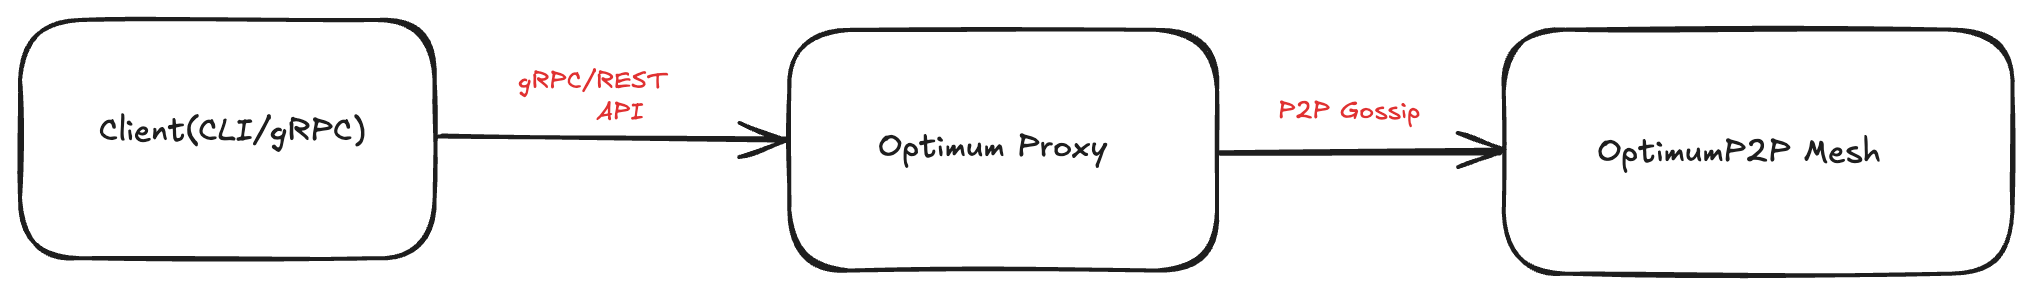
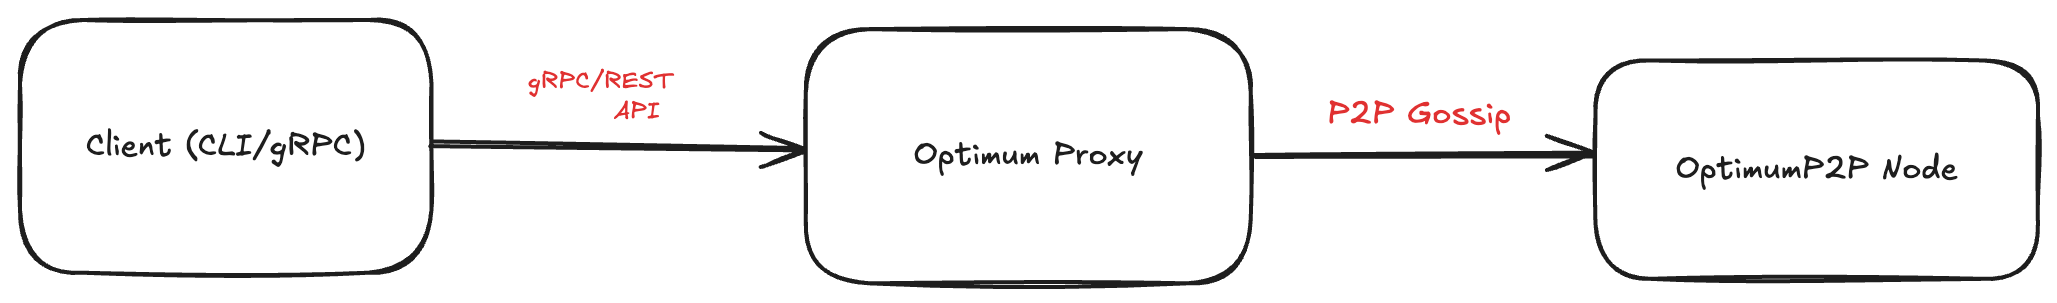
fix: diagrams and faq

diff --git a/docs/guides/02-getting-started-docker.md b/docs/guides/02-getting-started-docker.md
@@ -8,7 +8,7 @@ You can run the network in two primary ways:
 ![OptimumProxy + OptimumP2P Architecture](../../static/img/docker_1.png)
 
 * Simplifies client configuration — only the Proxy address is needed.
-* Proxy handles shard reassembly, threshold logic, and node selection.
+* Proxy handles shard reassembly, threshold logic, and node selection automatically.
 * Easier scaling and centralized policy control.
 
 **2. Direct OptimumP2P** — Clients connect directly to **OptimumP2P nodes** (each node must run the gRPC API).
@@ -16,7 +16,7 @@ You can run the network in two primary ways:
 ![Direct OptimumP2P Architecture](../../static/img/docker_2.png)
 
 * Fewer network hops = potentially lower latency.
-* Clients must know node addresses and manage failover.
+* Clients must know node addresses and manage failover logic.
 * Best for specialized or performance-critical workloads.
 
 

diff --git a/docs/guides/05-faq-glossary.md b/docs/guides/05-faq-glossary.md
@@ -1,12 +1,3 @@
-# FAQ & Glossary
-
-This section gives you:
-
-* **Quick answers** to common developer questions about OptimumP2P
-* A **glossary** of important terms so you can follow discussions and logs without confusion
-
----
-
-## Frequently Asked Questions (FAQ)
+# Frequently Asked Questions (FAQs)
 
 TODO::
